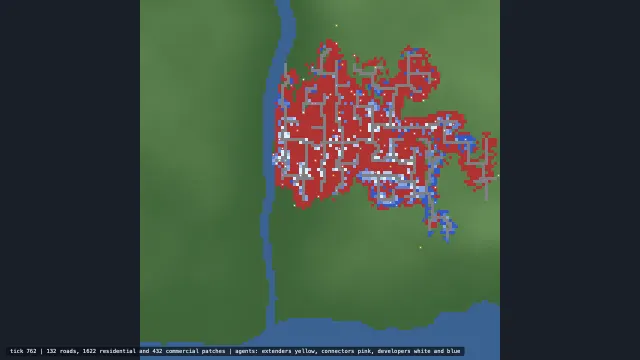
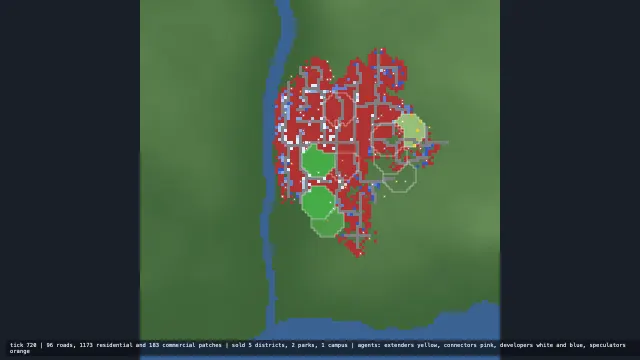
Speculators: land held ahead of the town and sold for districts, parks and a campus
Lechner et al. name speculators only as future work, "pseudo-developers"
reserving large tracts to sell later for residential districts,
universities and parks. The rules here are this code's own: a speculator
reserves a compact tract at the edge of town, holds it until the roads
reach it, and sells it as a houses-only district, a park no road
crosses, or a campus an institution builds out with grounds between its
halls. The agents demo outlines the tracts and gains a speculators
control; the 3D city's default detail goes to 10.

diff --git a/NOTES.md b/NOTES.md
@@ -318,7 +318,7 @@ field, for Greuter's buildings. Plane geometry is in
 | `lots`      | Parish & Müller §4.1          | Blocks as faces of the road graph, cut into lots                                  |
 | `buildings` | Parish & Müller §4.2, Greuter | A building per lot by a stochastic L-system from its bounding box                 |
 | `facade`    | Parish & Müller §4.3          | Layered grids: interval groups, layers, stacks                                    |
-| `agents`    | Lechner et al.                | Extenders, connectors and developers on a grid of patches                         |
+| `agents`    | Lechner et al.                | Extenders, connectors, developers and speculators on a grid of patches            |
 
 **The L-system is a queue.** The paper's road productions only decide
 *when* each proposed segment is considered: a branch waits out its delay,
@@ -375,6 +375,23 @@ comparison is about. Two choices are mine where the paper gives none: the
 weights in the land value, and that a road laid over a building clears
 it.
 
+**Speculators.** The paper's future work gives them one paragraph:
+"pseudo-developers" reserving large tracts to sell to developers later,
+for residential districts, universities and parks. Everything past that
+is this code's. A speculator roams the edge of town and, on land the roads
+do not serve yet, reserves the free patches joined to it within a disc of
+100 patches (it keeps the tract if it gets 60 of them), holding one tract
+at a time. Rough or waterside land it holds for a park half the time;
+flat land for a campus, one per town; the rest for housing. It sells
+once the roads serve a quarter of the tract and it has been held 120
+ticks, and gives up a tract held five times that. Sold, a residential
+district takes houses only, a park takes nothing -- not even a road --
+and counts for housing as water does, and a campus is built by an
+institution one hall at a time, never beside another. Commerce is what
+they cost: on seed 4 it falls from 829 patches to 412 in 1500 ticks,
+shut out of the districts and parks, while the speculators add nothing
+measurable to the time a tick takes.
+
 **Same seed, same city -- on one platform.** The land and the RNG are
 exact on both, but the road rules take `sin`, `cos` and `exp`, which the
 JVM and V8 may round differently in the last place, and over a thousand
@@ -387,8 +404,8 @@ so the agents' arrays are all given their zero explicitly.
 lowering the population around them, the zone and height *maps* as input
 images (they are functions of the land here), Sun et al.'s template road
 networks and Wonka's split grammars (the survey describes both too
-briefly to build from), and the agents' speculators and multi-patch plots,
-which the paper lists as future work.
+briefly to build from), and the agents' multi-patch plots, which the
+paper lists as future work beside the speculators.
 
 ## A spatial index for the triangulation
 
